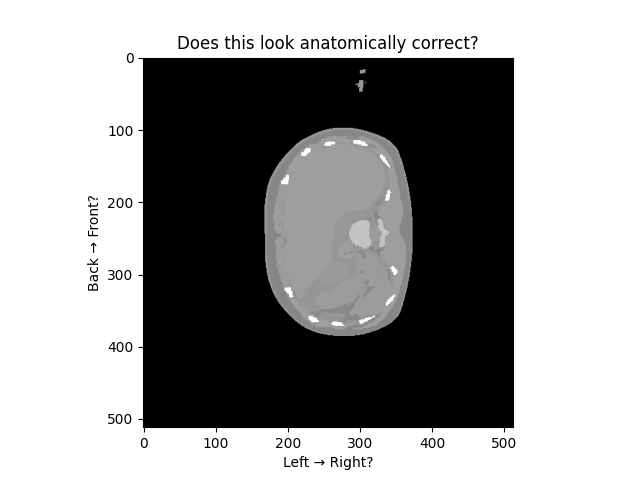
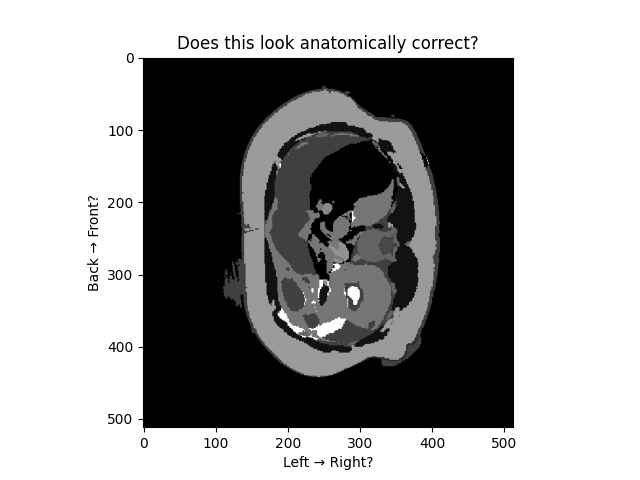
1

Changed region(s): [[0.3438, 0.1875, 0.6875, 0.7812], [0.5625, 0.1562, 0.5938, 0.1875]]

diff --git a/dataprocesser/Preprocess_MRCT_mask_conversion.py b/dataprocesser/Preprocess_MRCT_mask_conversion.py
@@ -119,6 +119,7 @@ def convert_segmentation_mask(source_mask, source_csv, target_csv, body_contour_
     target_organ_names = list(target_mapping.keys())
     target_mask = np.full_like(source_mask, 0, dtype=source_mask.dtype)
 
+    print('source mask contains values:', np.unique(source_mask))
     # Convert each unique class in the source mask
     for class_value in np.unique(source_mask):
         # Find the corresponding organ name in the source modality
@@ -151,6 +152,10 @@ def convert_segmentation_mask(source_mask, source_csv, target_csv, body_contour_
                     print(f"[Manual match] '{organ_name}' → '{matched_name}' → label {target_value}")
                 else:
                     # Fuzzy match fallback
+                    if not target_organ_names:
+                        raise ValueError("target_organ_names is None or empty!")
+                    if not organ_name:
+                        raise ValueError("organ_name is None or empty!")
                     close_matches = difflib.get_close_matches(organ_name, target_organ_names, n=1, cutoff=0.4)
                     if close_matches:
                         matched_name = close_matches[0]

diff --git a/seg2med_app/frankenstein/frankenstein.py b/seg2med_app/frankenstein/frankenstein.py
@@ -216,7 +216,7 @@ def frankenstein_control():
             fixed_organ_volume = fixed_organ 
             fixed_organ_slice = processing_slice_to_right_orientation(fixed_organ_volume[:,:,fixed_orgna_slice_idx])
             label_mask_fixed_organ = convert_organ_mask_to_label(fixed_organ_slice, fixed_organ_name, st.session_state["organ_to_label"])
-            combine_label_fixed_organ_slice += label_mask_fixed_organ
+            combine_label_fixed_organ_slice = np.maximum(combine_label_fixed_organ_slice, label_mask_fixed_organ) 
         combine_fixed_organ_rgb_map = convert_label_to_rgb_map(combine_label_fixed_organ_slice, st.session_state["label_to_color"])
         
         
